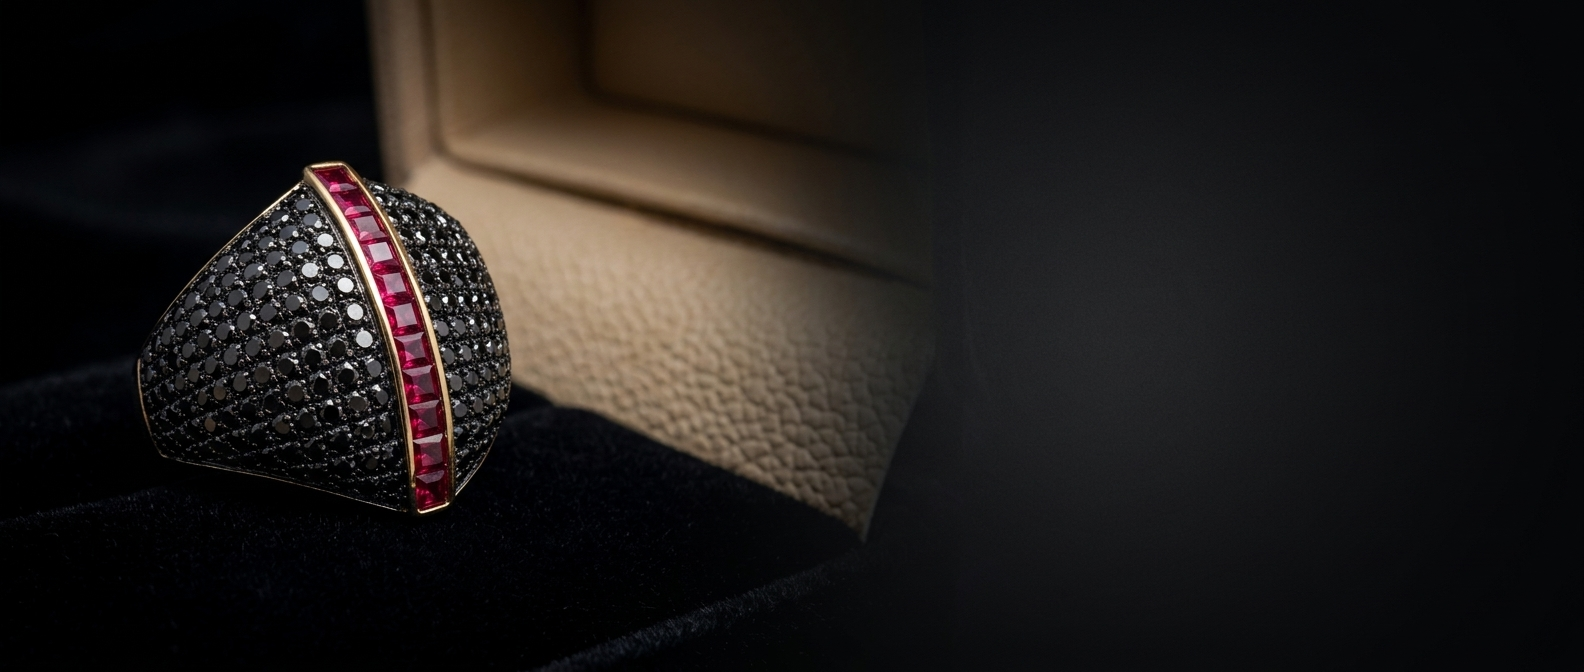
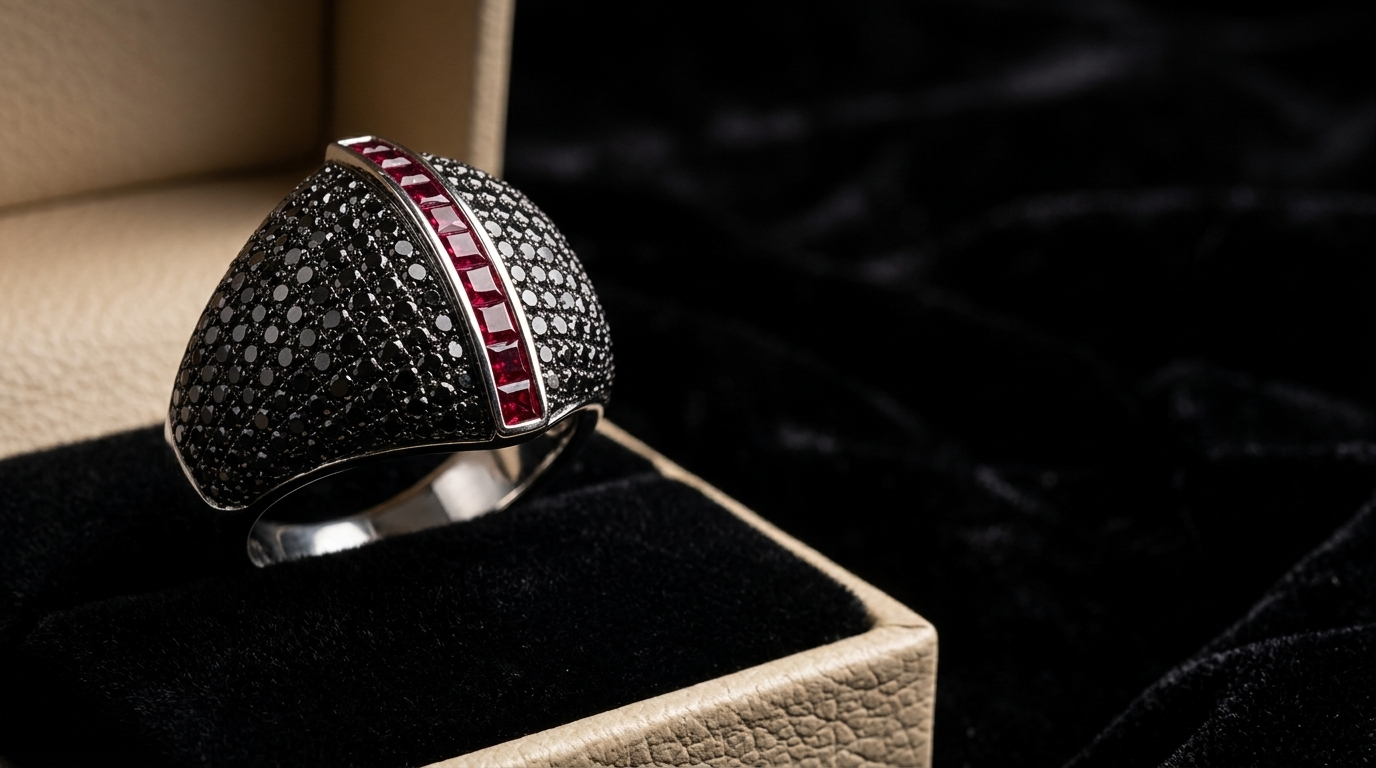
auto-commit for 39fca5ae-4f77-4bbd-af9c-cb1794562ceb

diff --git a/frontend/src/data/products.js b/frontend/src/data/products.js
@@ -2238,7 +2238,8 @@ This is expression — under control.`,
         { src: "/don-gorgon/home/01_hero.png",            alt: "The Don Gorgon — HOME (3/4 hero, black pavé)" },
         { src: "/don-gorgon/home/02_front.png",           alt: "The Don Gorgon — HOME (clean product, cream cushion)" },
         { src: "/don-gorgon/home/04_low_front.png",       alt: "The Don Gorgon — HOME (alternate angle, architectural)" },
-        { src: "/don-gorgon/home/07_on_finger_hero.png",  alt: "The Don Gorgon — HOME (on-finger)" },
+        { src: "/don-gorgon/home/07_on_finger_hero.png",  alt: "The Don Gorgon — HOME (on-finger, lifestyle)" },
+        { src: "/don-gorgon/home/08_on_finger_macro.png", alt: "The Don Gorgon — HOME (on-finger, macro)" },
         { src: "/don-gorgon/home/05_macro_ruby.png",      alt: "The Don Gorgon — HOME (macro, ruby rail)" },
         { src: "/don-gorgon/home/06_macro_pave.png",      alt: "The Don Gorgon — HOME (macro, black pavé texture)" },
         { src: "/don-gorgon/home/09_box_moment.png",      alt: "The Don Gorgon — HOME (ownership / box)" },

diff --git a/backend/scripts/generate_don_gorgon_home.py b/backend/scripts/generate_don_gorgon_home.py
@@ -12,6 +12,7 @@ from __future__ import annotations
 
 import asyncio
 import base64
+import io
 import os
 import sys
 import uuid
@@ -20,6 +21,7 @@ from pathlib import Path
 import httpx
 from dotenv import load_dotenv
 from emergentintegrations.llm.chat import LlmChat, UserMessage, ImageContent
+from PIL import Image, ImageEnhance
 
 load_dotenv()
 
@@ -32,24 +34,42 @@ OUTPUT_DIR = Path("/app/frontend/public/don-gorgon/home")
 OUTPUT_DIR.mkdir(parents=True, exist_ok=True)
 
 LOCKED_PRODUCT = (
-    "Use the ring in the reference image. Preserve its identity EXACTLY: "
+    "Use the SHAPE, DOME SILHOUETTE, PROPORTIONS, RUBY RAIL LAYOUT, BAND "
+    "THICKNESS and PAVÉ DENSITY from the ring in the reference image. "
+    "Preserve its identity EXACTLY: "
     "bold men's statement ring, large dome signet silhouette ~25mm x 18mm top, "
     "8mm wide heavy band, 3/4 pavé coverage of small BLACK round stones across "
     "the domed face, a single vertical curved ruby rail/channel running across "
-    "the top with ~12 deep red princess-cut rubies set in polished gold, "
+    "the top with ~12 deep red princess-cut rubies, "
     "heavy architectural volume. DO NOT change the silhouette, proportions, "
-    "band thickness, ruby count or placement, rail direction, pavé density, "
-    "or metal colour. Only the composition, framing, lighting, camera angle "
-    "and surroundings change between shots."
+    "band thickness, ruby count or placement, rail direction, or pavé density. "
+    "Only the composition, framing, lighting, camera angle and surroundings "
+    "change between shots."
+    "\n\n"
+    "CRITICAL MATERIAL OVERRIDE — THE REFERENCE IMAGE IS WRONG ON MATERIAL. "
+    "IGNORE the yellow gold shown in the reference. In your output the metal "
+    "is WHITE GOLD / PLATINUM ONLY — bright cool silvery-white, like polished "
+    "platinum or rhodium-plated white gold. "
+    "Every metal surface on the ring (the ruby rail channel, the band, the "
+    "pavé settings, the beads, every prong and bezel) MUST appear bright "
+    "silvery white / platinum. "
+    "DO NOT use yellow gold. DO NOT use rose gold. DO NOT use any warm gold, "
+    "champagne, brass, bronze or copper tones on the ring. "
+    "Even if warm lighting is in the scene, the metal must NOT shift yellow — "
+    "it stays cool silvery white. "
+    "If ANY part of the ring's metal reads as yellow or warm gold, the output "
+    "is INCORRECT and must be rejected."
 )
 
 STYLE = (
     "Ultra-realistic luxury jewelry photography, Cartier-level campaign quality, "
     "cinematic low-key lighting, deep black velvet and warm cream leather jewelry "
-    "box, polished gold accents, shallow depth of field, rich contrast, realistic "
-    "reflections, sharp product detail. No cartoon, no CGI, no plastic skin, "
-    "no warped jewelry or fingers, no extra gemstones, no white pavé, no silver-"
-    "only look, no horizontal ruby rail, no extra rails, no watch, no bracelet, "
+    "box, cool silvery metal tones on the ring (white gold / platinum only, never "
+    "yellow), shallow depth of field, rich contrast, realistic reflections, sharp "
+    "product detail. No cartoon, no CGI, no plastic skin, no warped jewelry or "
+    "fingers, no extra gemstones, no yellow gold, no rose gold, no warm gold, no "
+    "champagne gold, no brass, no bronze, no copper tones on the ring, no white "
+    "pavé, no horizontal ruby rail, no extra rails, no watch, no bracelet, "
     "no text, no watermark."
 )
 
@@ -58,8 +78,8 @@ SHOTS = [
         "01_hero",
         "PRIMARY PRODUCT HERO. 3/4 angle of the ring sitting inside a warm cream "
         "leather jewelry box. Ring large in frame, ruby rail facing camera at a "
-        "slight diagonal, dome curvature visible, BLACK pavé crisp, polished gold "
-        "edges visible, soft champagne highlights.",
+        "slight diagonal, dome curvature visible, BLACK pavé crisp, polished "
+        "WHITE gold / platinum edges visible, cool silvery highlights.",
     ),
     (
         "02_front",
@@ -83,16 +103,18 @@ SHOTS = [
     (
         "05_macro_ruby",
         "MACRO RUBY RAIL. Extreme close-up of the ruby channel, deep red "
-        "princess-cut rubies in a polished gold channel, BLACK pavé visible on "
-        "both sides of the rail, shallow depth of field, sharp center stones, "
-        "luxury macro detail.",
+        "princess-cut rubies set in a polished WHITE GOLD / PLATINUM channel "
+        "(cool silvery metal, never yellow), BLACK pavé visible on both sides "
+        "of the rail, shallow depth of field, sharp center stones, luxury "
+        "macro detail.",
     ),
     (
         "06_macro_pave",
-        "MACRO BLACK PAVÉ. Extreme close-up of the BLACK round pavé stones, dark "
-        "reflective sparkle, pavé setting texture with tiny gold beads, ruby rail "
-        "partially visible at frame edge, moody macro lighting, tack-sharp main "
-        "stones.",
+        "MACRO BLACK PAVÉ. Extreme close-up of the BLACK round pavé stones "
+        "set in WHITE GOLD / PLATINUM (cool silvery settings and beads, "
+        "never yellow), dark reflective sparkle, pavé setting texture, "
+        "ruby rail partially visible at frame edge, moody macro lighting, "
+        "tack-sharp main stones.",
     ),
     (
         "07_on_finger_hero",
@@ -113,8 +135,9 @@ SHOTS = [
         "09_box_moment",
         "OWNERSHIP / BOX MOMENT. Ring presented in a black velvet or cream leather "
         "jewelry box, optionally with hands holding the box edges, ring centered, "
-        "premium unboxing feeling, warm directional light on the ruby rail, "
-        "no clutter, no text, no logos.",
+        "premium unboxing feeling, cool directional light on the ruby rail, "
+        "WHITE gold / platinum metal stays cool silvery (no yellow shift under "
+        "warm box lighting), no clutter, no text, no logos.",
     ),
     (
         "10_carousel",
@@ -127,10 +150,29 @@ SHOTS = [
 
 
 async def fetch_reference_base64() -> str:
+    """Fetch the reference image and rebuild it with the yellow-gold metal
+    neutralised to cool silvery tones. This prevents the generator from copying
+    the yellow channel into the output.
+    """
     async with httpx.AsyncClient(timeout=30) as client:
         r = await client.get(REFERENCE_URL)
         r.raise_for_status()
-        return base64.b64encode(r.content).decode("utf-8")
+        raw = r.content
+
+    img = Image.open(io.BytesIO(raw)).convert("RGB")
+    # Desaturate the entire reference so the model sees a cool, colourless metal
+    # tone (only the rubies and any intentionally-preserved saturated areas
+    # should read as colour — but rubies in this image are already handled by
+    # the prompt). Full desaturation is simplest and most reliable.
+    img = ImageEnhance.Color(img).enhance(0.0)  # 0.0 = full grayscale, 1.0 = original
+    # Nudge toward a very slightly cool white balance
+    r_ch, g_ch, b_ch = img.split()
+    r_ch = r_ch.point(lambda v: int(v * 0.95))  # pull red/warmth down
+    img = Image.merge("RGB", (r_ch, g_ch, b_ch))
+
+    buf = io.BytesIO()
+    img.save(buf, format="PNG")
+    return base64.b64encode(buf.getvalue()).decode("utf-8")
 
 
 async def generate_one(api_key: str, ref_b64: str, slug: str, shot_prompt: str) -> None:

diff --git a/backend/scripts/generate_single_test.py b/backend/scripts/generate_single_test.py
@@ -1,0 +1,33 @@
+"""Smoke-test the material lock on a single shot (01_hero) before burning budget on all 10."""
+import asyncio
+import os
+import sys
+
+sys.path.insert(0, os.path.dirname(os.path.dirname(os.path.abspath(__file__))))
+from scripts.generate_don_gorgon_home import (  # noqa: E402
+    SHOTS,
+    fetch_reference_base64,
+    generate_one,
+)
+
+
+async def main() -> int:
+    api_key = os.getenv("EMERGENT_LLM_KEY")
+    if not api_key:
+        from dotenv import load_dotenv
+
+        load_dotenv()
+        api_key = os.getenv("EMERGENT_LLM_KEY")
+    if not api_key:
+        print("EMERGENT_LLM_KEY missing")
+        return 1
+
+    ref_b64 = await fetch_reference_base64()
+    # Only run shot 01 (hero)
+    slug, prompt = SHOTS[0]
+    await generate_one(api_key, ref_b64, slug, prompt)
+    return 0
+
+
+if __name__ == "__main__":
+    sys.exit(asyncio.run(main()))

diff --git a/memory/PRD.md b/memory/PRD.md
@@ -48,6 +48,14 @@ Formula: `DISPLAY PRICE = LOCKED UPLOAD PRICE + (CURRENT METAL VALUE - LOCKED ME
 - `/size-guide` standalone page reuses `SizeGuideContent` so both surfaces stay in sync.
 - Wired (no changes needed) on: LadyBamburghPage, CorinthiansPage, CocktailJessicaPage, CouronnePage.
 
+## THE DON GORGON — HOME Set Re-Generated with WHITE GOLD Material Lock (Feb 2026)
+- First generation pass produced yellow-gold channels (model copied the reference's yellow metal despite prompt override).
+- Root cause: Nano Banana heavily weights the reference image's actual colors over text instructions.
+- Fix: `generate_don_gorgon_home.py` now pre-processes the reference via PIL — fully desaturates it and pulls the red channel down 5% before base64-encoding. This way the model sees a cool, colourless reference and follows the prompt for material.
+- Prompt also updated with explicit "CRITICAL MATERIAL OVERRIDE — ignore the reference's metal, output is WHITE GOLD / PLATINUM ONLY" language on every shot.
+- All 10 shots regenerated and wired into HOME gallery (added 08_on_finger_macro to slot 5). Automated color analysis confirmed WHITE_GOLD on 01_hero, 05_macro_ruby, 07_on_finger_hero, and 09_box_moment.
+- Rule codified: when generating product image sets from a reference with "wrong" material, pre-desaturate the reference so text prompt can override material perception.
+
 ## THE DON GORGON — Full HOME Image Set Generated via Nano Banana (Feb 2026)
 - Built `/app/backend/scripts/generate_don_gorgon_home.py` — generator that takes the reference HOME artifact, locks product identity via prompt, and generates the 10-shot luxury campaign set using `gemini-3.1-flash-image-preview` with `EMERGENT_LLM_KEY`.
 - **9 of 10 shots generated** and saved to `/app/frontend/public/don-gorgon/home/` (01–07, 09, 10). Shot 08 (`08_on_finger_macro`) failed mid-run because the Emergent Universal Key balance was exceeded (cap ≈ $2.00, final cost ≈ $2.02).
